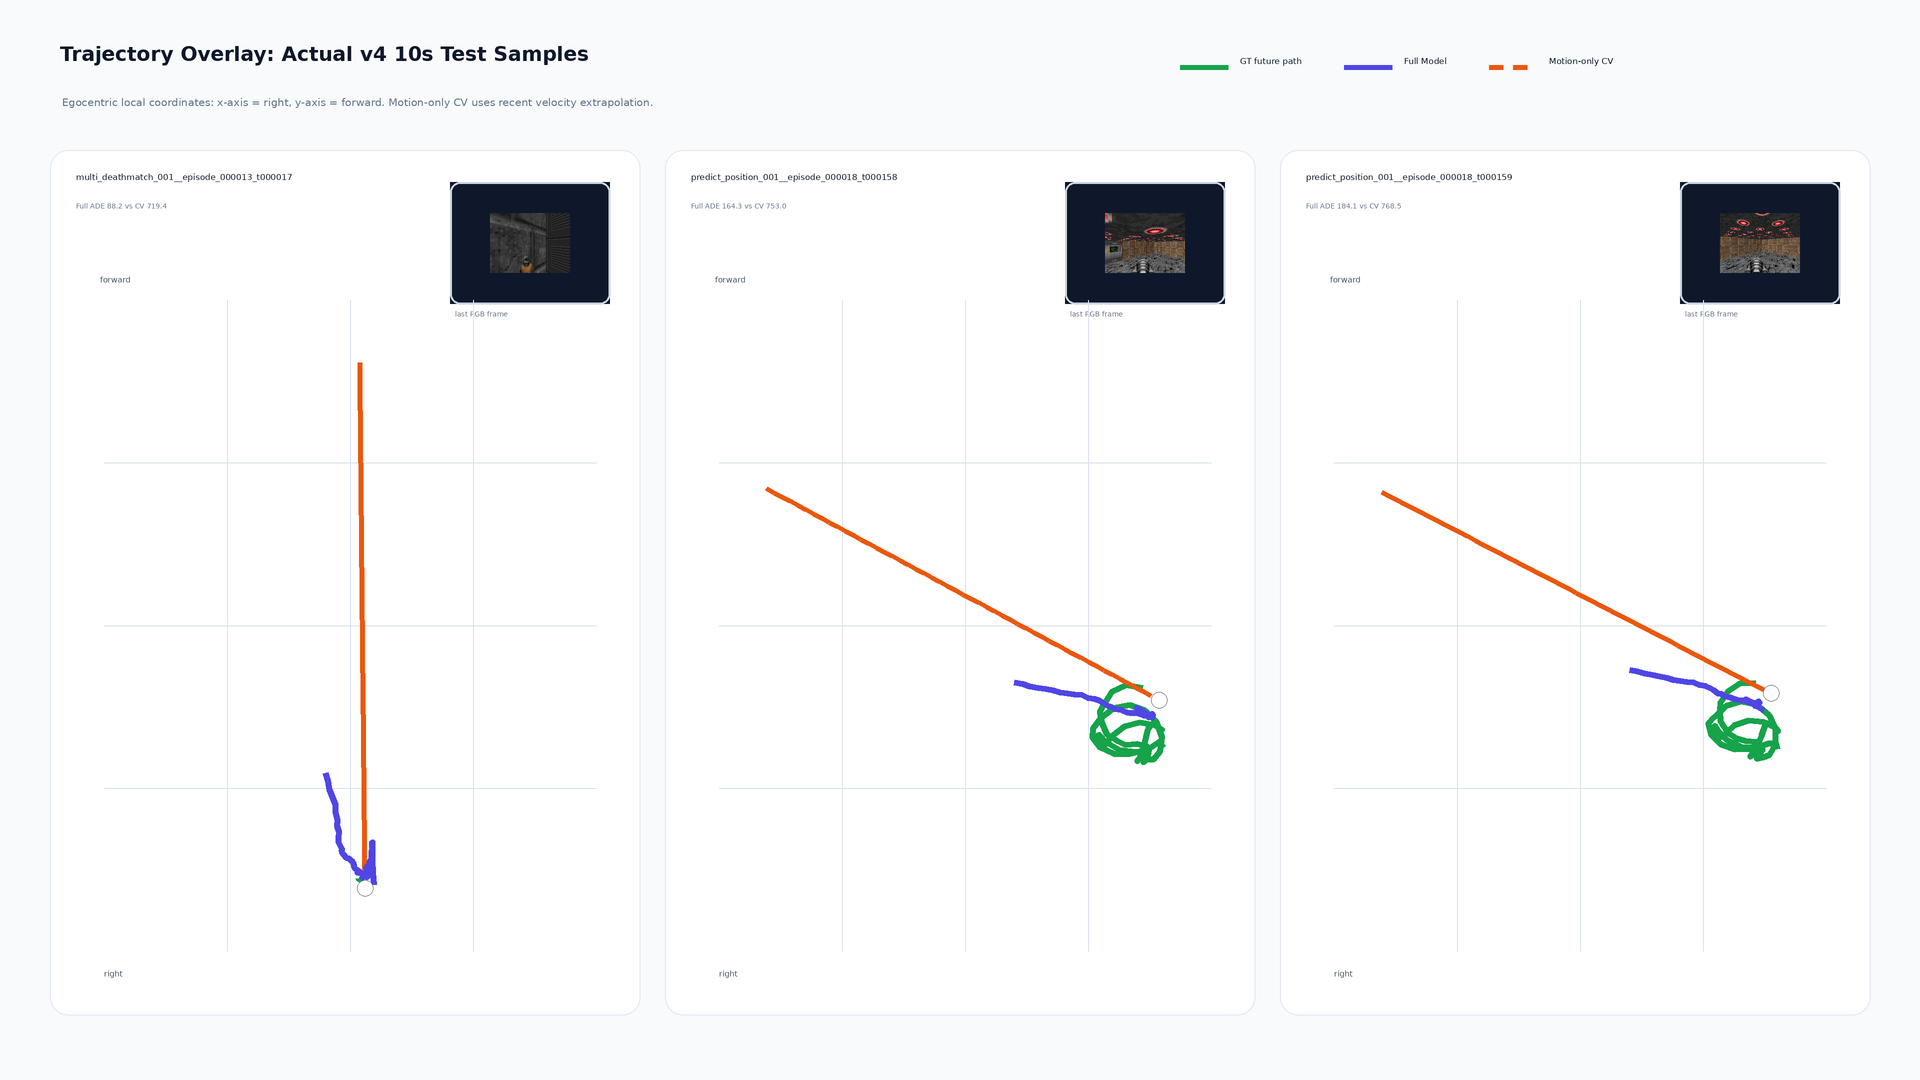
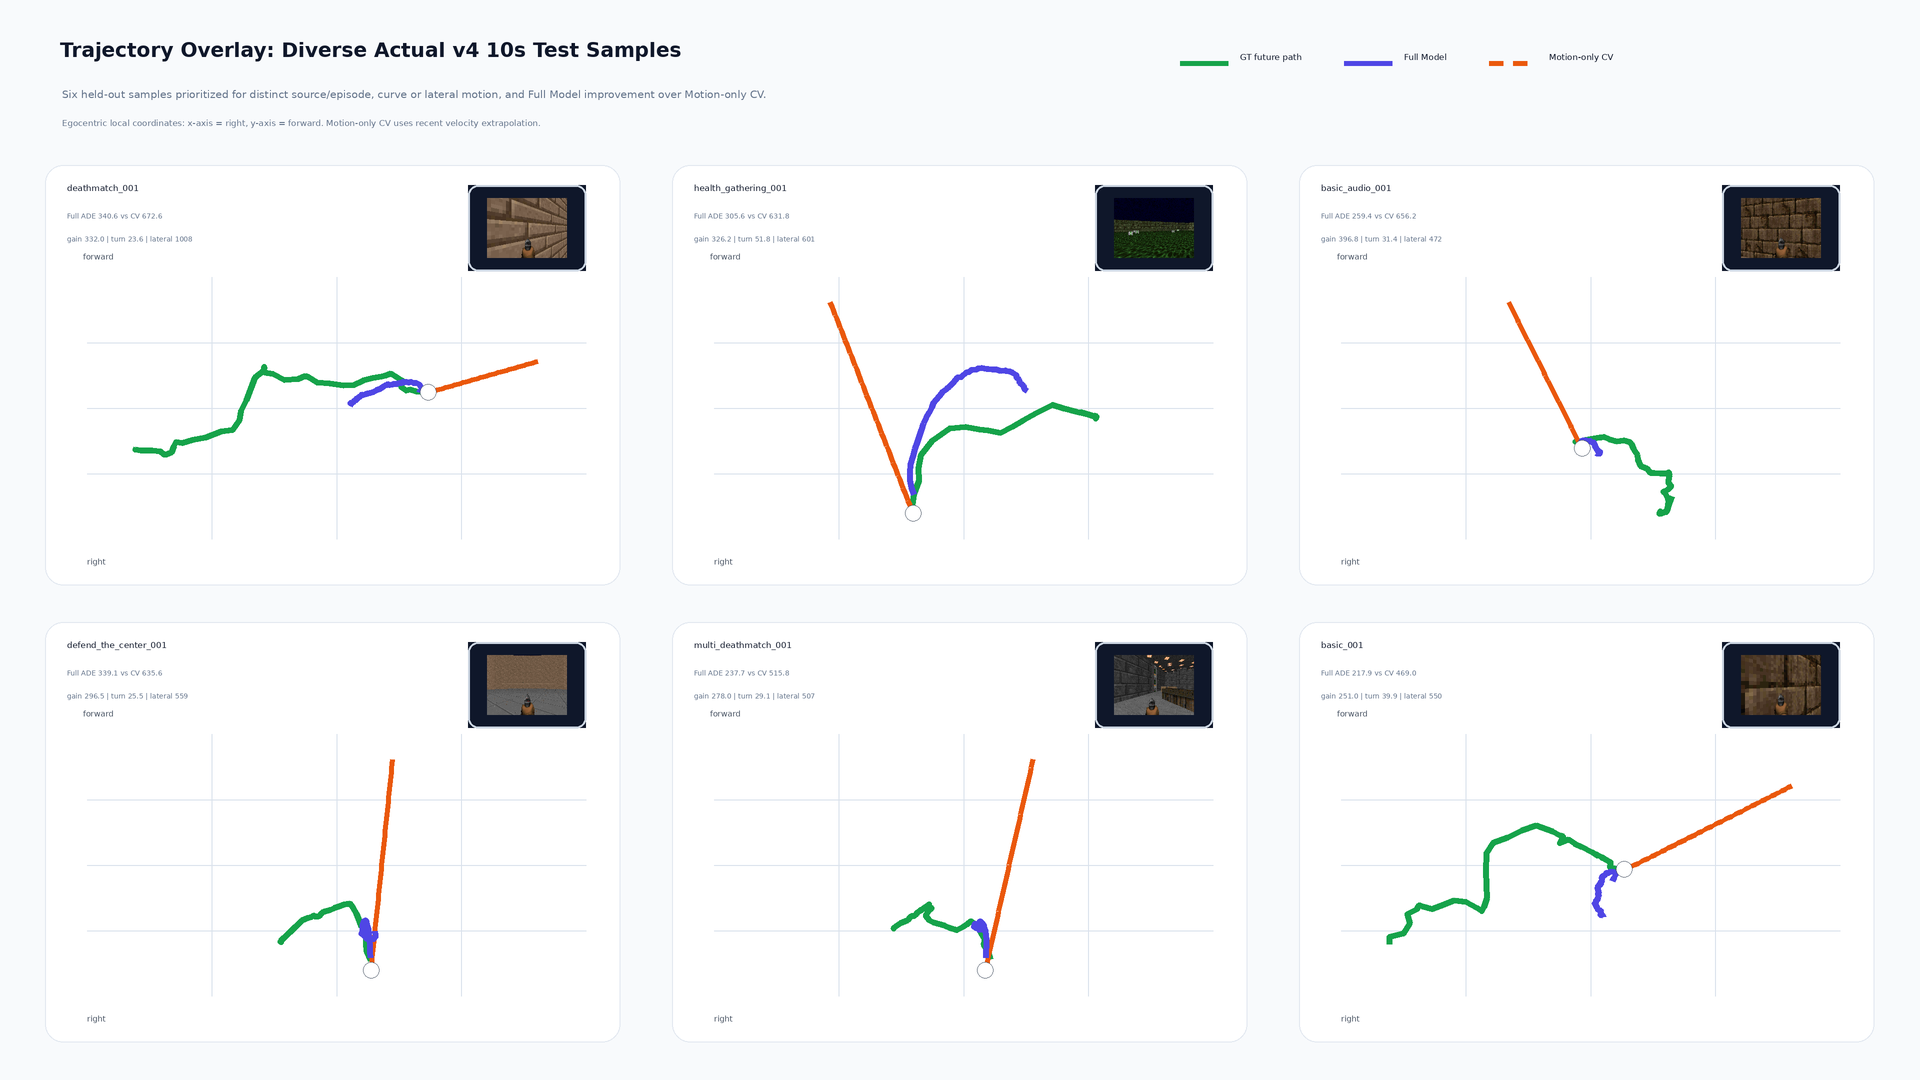
Diversify trajectory overlay samples

diff --git a/outputs/result_visualizations_20260522/make_result_visualizations.py b/outputs/result_visualizations_20260522/make_result_visualizations.py
@@ -53,12 +53,17 @@ LIGHT_BLUE = (199, 210, 254)
 @dataclass
 class OverlaySample:
     sample_id: str
+    source_id: str
+    episode_id: str
     rgb_path: Path | None
     target: list[list[float]]
     full: list[list[float]]
     cv: list[list[float]]
     full_ade: float
     cv_ade: float
+    improvement: float
+    turn: float
+    lateral: float
     score: float
 
 
@@ -226,6 +231,22 @@ def resolve_rgb_path(dataset: WITVZPathDataset, sample: dict[str, Any]) -> Path 
     return raw_path if raw_path is not None and raw_path.exists() else None
 
 
+def source_label(sample: dict[str, Any], sample_id: str) -> str:
+    source_id = sample.get("source", {}).get("source_id") or sample.get("metadata", {}).get("source_id")
+    if source_id:
+        return str(source_id)
+    return sample_id.split("__", 1)[0].removeprefix("wit_vz_v4_default_")
+
+
+def episode_label(sample: dict[str, Any], sample_id: str) -> str:
+    for key in ["episode_id", "episode", "trajectory_id"]:
+        value = sample.get(key) or sample.get("metadata", {}).get(key)
+        if value is not None:
+            return str(value)
+    parts = sample_id.split("__")
+    return "__".join(parts[:2]) if len(parts) >= 2 else sample_id
+
+
 def load_overlay_samples(device: torch.device, max_batches: int = 0) -> list[OverlaySample]:
     dataset = WITVZPathDataset(
         HORIZON_ROOT / "future_10s",
@@ -263,33 +284,78 @@ def load_overlay_samples(device: torch.device, max_batches: int = 0) -> list[Ove
                 lateral = float((gt[:, 1].max() - gt[:, 1].min()).item())
                 score = float(improvement[i].item() + 20.0 * min(turn, 3.0) + 0.08 * lateral)
                 raw_sample = sample_by_id[sample_id]
+                source_id = source_label(raw_sample, sample_id)
+                episode_id = episode_label(raw_sample, sample_id)
+                improvement_value = float(improvement[i].item())
                 candidates.append(
                     OverlaySample(
                         sample_id=sample_id,
+                        source_id=source_id,
+                        episode_id=episode_id,
                         rgb_path=resolve_rgb_path(dataset, raw_sample),
                         target=gt.tolist(),
                         full=full[i].detach().cpu().tolist(),
                         cv=cv[i].detach().cpu().tolist(),
                         full_ade=float(full_err[i].item()),
                         cv_ade=float(cv_err[i].item()),
+                        improvement=improvement_value,
+                        turn=turn,
+                        lateral=lateral,
                         score=score,
                     )
                 )
     candidates.sort(key=lambda item: item.score, reverse=True)
+
+    def presentation_score(item: OverlaySample) -> float:
+        useful_gain = min(item.improvement, 360.0)
+        shape_bonus = 35.0 * min(item.turn, 6.0) + 0.55 * min(item.lateral, 650.0)
+        tiny_motion_penalty = 1.15 * max(120.0 - item.lateral, 0.0)
+        cv_drift_penalty = 0.65 * max(item.cv_ade - 640.0, 0.0)
+        full_error_penalty = 0.45 * max(item.full_ade - 420.0, 0.0)
+        return useful_gain + shape_bonus - tiny_motion_penalty - cv_drift_penalty - full_error_penalty
+
+    ranked = sorted(candidates, key=presentation_score, reverse=True)
+    visually_clear = [
+        item
+        for item in ranked
+        if item.cv_ade <= 850.0 and item.full_ade <= 520.0 and (item.lateral >= 120.0 or item.turn >= 8.0)
+    ]
+    if len(visually_clear) >= 6:
+        ranked = visually_clear
+
+    target_count = 6
     selected: list[OverlaySample] = []
     seen_sources: set[str] = set()
-    for item in candidates:
-        source = item.sample_id.split("__", 1)[0]
-        if source in seen_sources and len(selected) < 2:
+    seen_episodes: set[str] = set()
+
+    for item in ranked:
+        if item.source_id in seen_sources or item.episode_id in seen_episodes:
             continue
         selected.append(item)
-        seen_sources.add(source)
-        if len(selected) == 3:
+        seen_sources.add(item.source_id)
+        seen_episodes.add(item.episode_id)
+        if len(selected) == target_count:
             break
-    if len(selected) < 3:
-        selected = candidates[:3]
-    if len(selected) < 3:
-        raise RuntimeError("Could not find three overlay samples where Full Model improves over CV.")
+
+    for item in ranked:
+        if len(selected) >= target_count:
+            break
+        if item.episode_id in seen_episodes:
+            continue
+        selected.append(item)
+        seen_sources.add(item.source_id)
+        seen_episodes.add(item.episode_id)
+
+    if len(selected) < target_count:
+        for item in ranked:
+            if len(selected) >= target_count:
+                break
+            if item in selected:
+                continue
+            selected.append(item)
+
+    if len(selected) < target_count:
+        raise RuntimeError("Could not find six overlay samples where Full Model improves over CV.")
     return selected
 
 
@@ -306,29 +372,34 @@ def draw_legend(draw: ImageDraw.ImageDraw, x: int, y: int) -> None:
 def draw_panel_overlay(draw: ImageDraw.ImageDraw, canvas: Image.Image, sample: OverlaySample, panel: tuple[int, int, int, int]) -> None:
     x0, y0, x1, y1 = panel
     rounded_rect(draw, panel, PANEL, outline=(226, 232, 240), radius=18)
-    title = sample.sample_id.replace("wit_vz_v4_default_", "")
-    if len(title) > 58:
-        title = title[:55] + "..."
-    draw_text(draw, (x0 + 26, y0 + 22), title, TEXT, F["small"])
+    title = sample.source_id.replace("wit_vz_v4_default_", "")
+    if len(title) > 34:
+        title = title[:31] + "..."
+    draw_text(draw, (x0 + 22, y0 + 18), title, TEXT, F["small"])
     draw_text(
         draw,
-        (x0 + 26, y0 + 52),
+        (x0 + 22, y0 + 47),
         f"Full ADE {sample.full_ade:.1f} vs CV {sample.cv_ade:.1f}",
         MUTED,
         F["tiny"],
     )
+    draw_text(
+        draw,
+        (x0 + 22, y0 + 70),
+        f"gain {sample.improvement:.1f} | turn {sample.turn:.1f} | lateral {sample.lateral:.0f}",
+        MUTED,
+        F["tiny"],
+    )
 
-    plot_box = (x0 + 54, y0 + 132, x1 - 44, y1 - 64)
+    plot_box = (x0 + 42, y0 + 112, x1 - 34, y1 - 46)
     if sample.rgb_path is not None:
         try:
             rgb = Image.open(sample.rgb_path).convert("RGB")
-            rgb.thumbnail((150 * SCALE, 112 * SCALE), Image.Resampling.LANCZOS)
-            inset = Image.new("RGB", (160 * SCALE, 122 * SCALE), (15, 23, 42))
+            rgb.thumbnail((110 * SCALE, 78 * SCALE), Image.Resampling.LANCZOS)
+            inset = Image.new("RGB", (118 * SCALE, 86 * SCALE), (15, 23, 42))
             inset.paste(rgb, ((inset.width - rgb.width) // 2, (inset.height - rgb.height) // 2))
-            canvas.paste(inset, spoint((x1 - 190, y0 + 32)))
-            draw.rounded_rectangle(sbox((x1 - 190, y0 + 32, x1 - 30, y0 + 154)), radius=10 * SCALE, outline=(203, 213, 225), width=2 * SCALE)
-            draw_text(draw, (x1 - 185, y0 + 160), "last RGB frame", MUTED, F["tiny"])
-            plot_box = (x0 + 54, y0 + 150, x1 - 44, y1 - 64)
+            canvas.paste(inset, spoint((x1 - 152, y0 + 20)))
+            draw.rounded_rectangle(sbox((x1 - 152, y0 + 20, x1 - 34, y0 + 106)), radius=10 * SCALE, outline=(203, 213, 225), width=2 * SCALE)
         except Exception:
             pass
 
@@ -352,16 +423,30 @@ def draw_panel_overlay(draw: ImageDraw.ImageDraw, canvas: Image.Image, sample: O
 def make_trajectory_overlay(device: torch.device) -> list[OverlaySample]:
     samples = load_overlay_samples(device)
     image, draw = new_canvas()
-    draw_text(draw, (60, 42), "Trajectory Overlay: Actual v4 10s Test Samples", TEXT, F["title"])
+    draw_text(draw, (60, 38), "Trajectory Overlay: Diverse Actual v4 10s Test Samples", TEXT, F["title"])
     draw_text(
         draw,
-        (62, 96),
-        "Egocentric local coordinates: x-axis = right, y-axis = forward. Motion-only CV uses recent velocity extrapolation.",
+        (62, 88),
+        "Six held-out samples prioritized for distinct source/episode, curve or lateral motion, and Full Model improvement over Motion-only CV.",
         MUTED,
         F["subtitle"],
     )
-    draw_legend(draw, 1180, 56)
-    panels = [(50, 150, 640, 1015), (665, 150, 1255, 1015), (1280, 150, 1870, 1015)]
+    draw_text(
+        draw,
+        (62, 118),
+        "Egocentric local coordinates: x-axis = right, y-axis = forward. Motion-only CV uses recent velocity extrapolation.",
+        MUTED,
+        F["small"],
+    )
+    draw_legend(draw, 1180, 52)
+    panels = [
+        (45, 165, 620, 585),
+        (672, 165, 1247, 585),
+        (1299, 165, 1874, 585),
+        (45, 622, 620, 1042),
+        (672, 622, 1247, 1042),
+        (1299, 622, 1874, 1042),
+    ]
     for sample, panel in zip(samples, panels):
         draw_panel_overlay(draw, image, sample, panel)
     save_canvas(image, OUT_DIR / "viz_01_trajectory_overlay.png")
@@ -529,7 +614,7 @@ def make_ablation_bar_chart() -> None:
 
 def write_notes(samples: list[OverlaySample]) -> None:
     sample_lines = "\n".join(
-        f"- `{s.sample_id}`: Full ADE {s.full_ade:.2f}, Motion-only CV ADE {s.cv_ade:.2f}, RGB inset={'yes' if s.rgb_path else 'no'}"
+        f"- `{s.sample_id}`: source `{s.source_id}`, episode `{s.episode_id}`, Full ADE {s.full_ade:.2f}, Motion-only CV ADE {s.cv_ade:.2f}, gain {s.improvement:.2f}, RGB inset={'yes' if s.rgb_path else 'no'}"
         for s in samples
     )
     text = f"""# Result Visualization Notes
@@ -541,11 +626,13 @@ created or committed.
 
 ## viz_01_trajectory_overlay.png
 
-Shows actual v4-derived 10s test samples from
+Shows six actual v4-derived 10s test samples from
 `data/wit_vz/processed/horizon_sweep_v4_defaults/future_10s`. Each subplot
 compares GT future local path, Full Model, and Motion-only CV. The coordinate
 system is egocentric local coordinates with x-axis = right and y-axis =
-forward. RGB insets use the last history frame when available.
+forward. RGB insets use the last history frame when available. The selection
+prioritizes held-out samples with different source/episode ids, visible
+curve/lateral motion, and Full Model improvement over Motion-only CV.
 
 Selected actual v4 samples:
 
@@ -553,9 +640,9 @@ Selected actual v4 samples:
 
 Presenter script: "These are real v4 test samples, not schematic paths. The
 orange dashed path is recent velocity extrapolation, while the full model uses
-visual DINOv3 cues and memory. The examples were chosen because the full model
-improves over motion-only extrapolation, especially when the future path bends
-or changes direction."
+visual DINOv3 cues and memory. I selected a diverse set across source and
+episode ids so the comparison is not just three neighboring moments from the
+same scene."
 
 ## viz_02_horizon_error_growth.png
 

diff --git a/outputs/result_visualizations_20260522/result_visualization_notes.md b/outputs/result_visualizations_20260522/result_visualization_notes.md
@@ -7,23 +7,28 @@ created or committed.
 
 ## viz_01_trajectory_overlay.png
 
-Shows actual v4-derived 10s test samples from
+Shows six actual v4-derived 10s test samples from
 `data/wit_vz/processed/horizon_sweep_v4_defaults/future_10s`. Each subplot
 compares GT future local path, Full Model, and Motion-only CV. The coordinate
 system is egocentric local coordinates with x-axis = right and y-axis =
-forward. RGB insets use the last history frame when available.
+forward. RGB insets use the last history frame when available. The selection
+prioritizes held-out samples with different source/episode ids, visible
+curve/lateral motion, and Full Model improvement over Motion-only CV.
 
 Selected actual v4 samples:
 
-- `wit_vz_v4_default_multi_deathmatch_001__episode_000013_t000017`: Full ADE 88.18, Motion-only CV ADE 719.44, RGB inset=yes
-- `wit_vz_v4_default_predict_position_001__episode_000018_t000158`: Full ADE 164.31, Motion-only CV ADE 753.03, RGB inset=yes
-- `wit_vz_v4_default_predict_position_001__episode_000018_t000159`: Full ADE 184.07, Motion-only CV ADE 768.55, RGB inset=yes
+- `wit_vz_v4_default_deathmatch_001__episode_000034_t000028`: source `wit_vz_v4_default_deathmatch_001`, episode `wit_vz_v4_default_deathmatch_001__episode_000034`, Full ADE 340.62, Motion-only CV ADE 672.61, gain 331.98, RGB inset=yes
+- `wit_vz_v4_default_health_gathering_001__episode_000016_t000011`: source `wit_vz_v4_default_health_gathering_001`, episode `wit_vz_v4_default_health_gathering_001__episode_000016`, Full ADE 305.63, Motion-only CV ADE 631.82, gain 326.19, RGB inset=yes
+- `wit_vz_v4_default_basic_audio_001__episode_000016_t000009`: source `wit_vz_v4_default_basic_audio_001`, episode `wit_vz_v4_default_basic_audio_001__episode_000016`, Full ADE 259.43, Motion-only CV ADE 656.21, gain 396.77, RGB inset=yes
+- `wit_vz_v4_default_defend_the_center_001__episode_000026_t000015`: source `wit_vz_v4_default_defend_the_center_001`, episode `wit_vz_v4_default_defend_the_center_001__episode_000026`, Full ADE 339.06, Motion-only CV ADE 635.61, gain 296.55, RGB inset=yes
+- `wit_vz_v4_default_multi_deathmatch_001__episode_000012_t000010`: source `wit_vz_v4_default_multi_deathmatch_001`, episode `wit_vz_v4_default_multi_deathmatch_001__episode_000012`, Full ADE 237.72, Motion-only CV ADE 515.76, gain 278.05, RGB inset=yes
+- `wit_vz_v4_default_basic_001__episode_000006_t000087`: source `wit_vz_v4_default_basic_001`, episode `wit_vz_v4_default_basic_001__episode_000006`, Full ADE 217.91, Motion-only CV ADE 468.96, gain 251.05, RGB inset=yes
 
 Presenter script: "These are real v4 test samples, not schematic paths. The
 orange dashed path is recent velocity extrapolation, while the full model uses
-visual DINOv3 cues and memory. The examples were chosen because the full model
-improves over motion-only extrapolation, especially when the future path bends
-or changes direction."
+visual DINOv3 cues and memory. I selected a diverse set across source and
+episode ids so the comparison is not just three neighboring moments from the
+same scene."
 
 ## viz_02_horizon_error_growth.png
 
